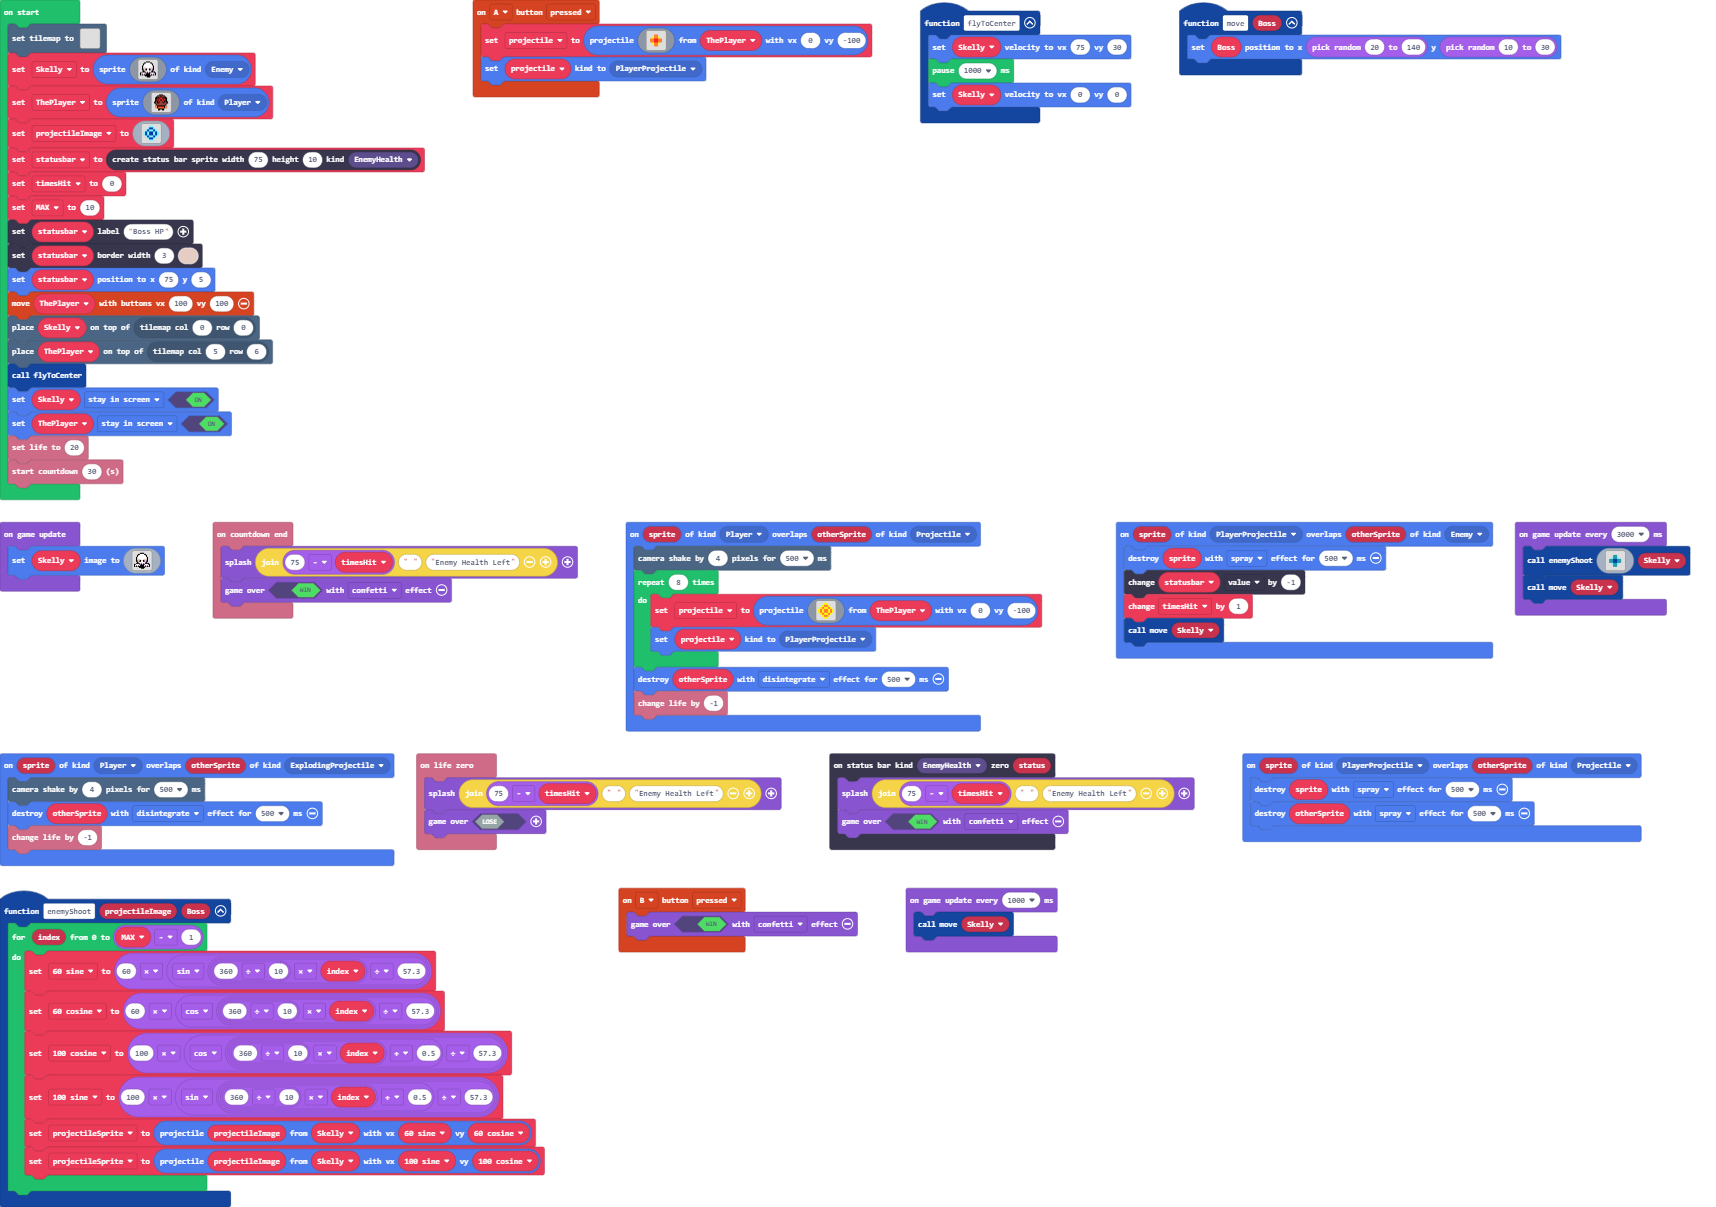
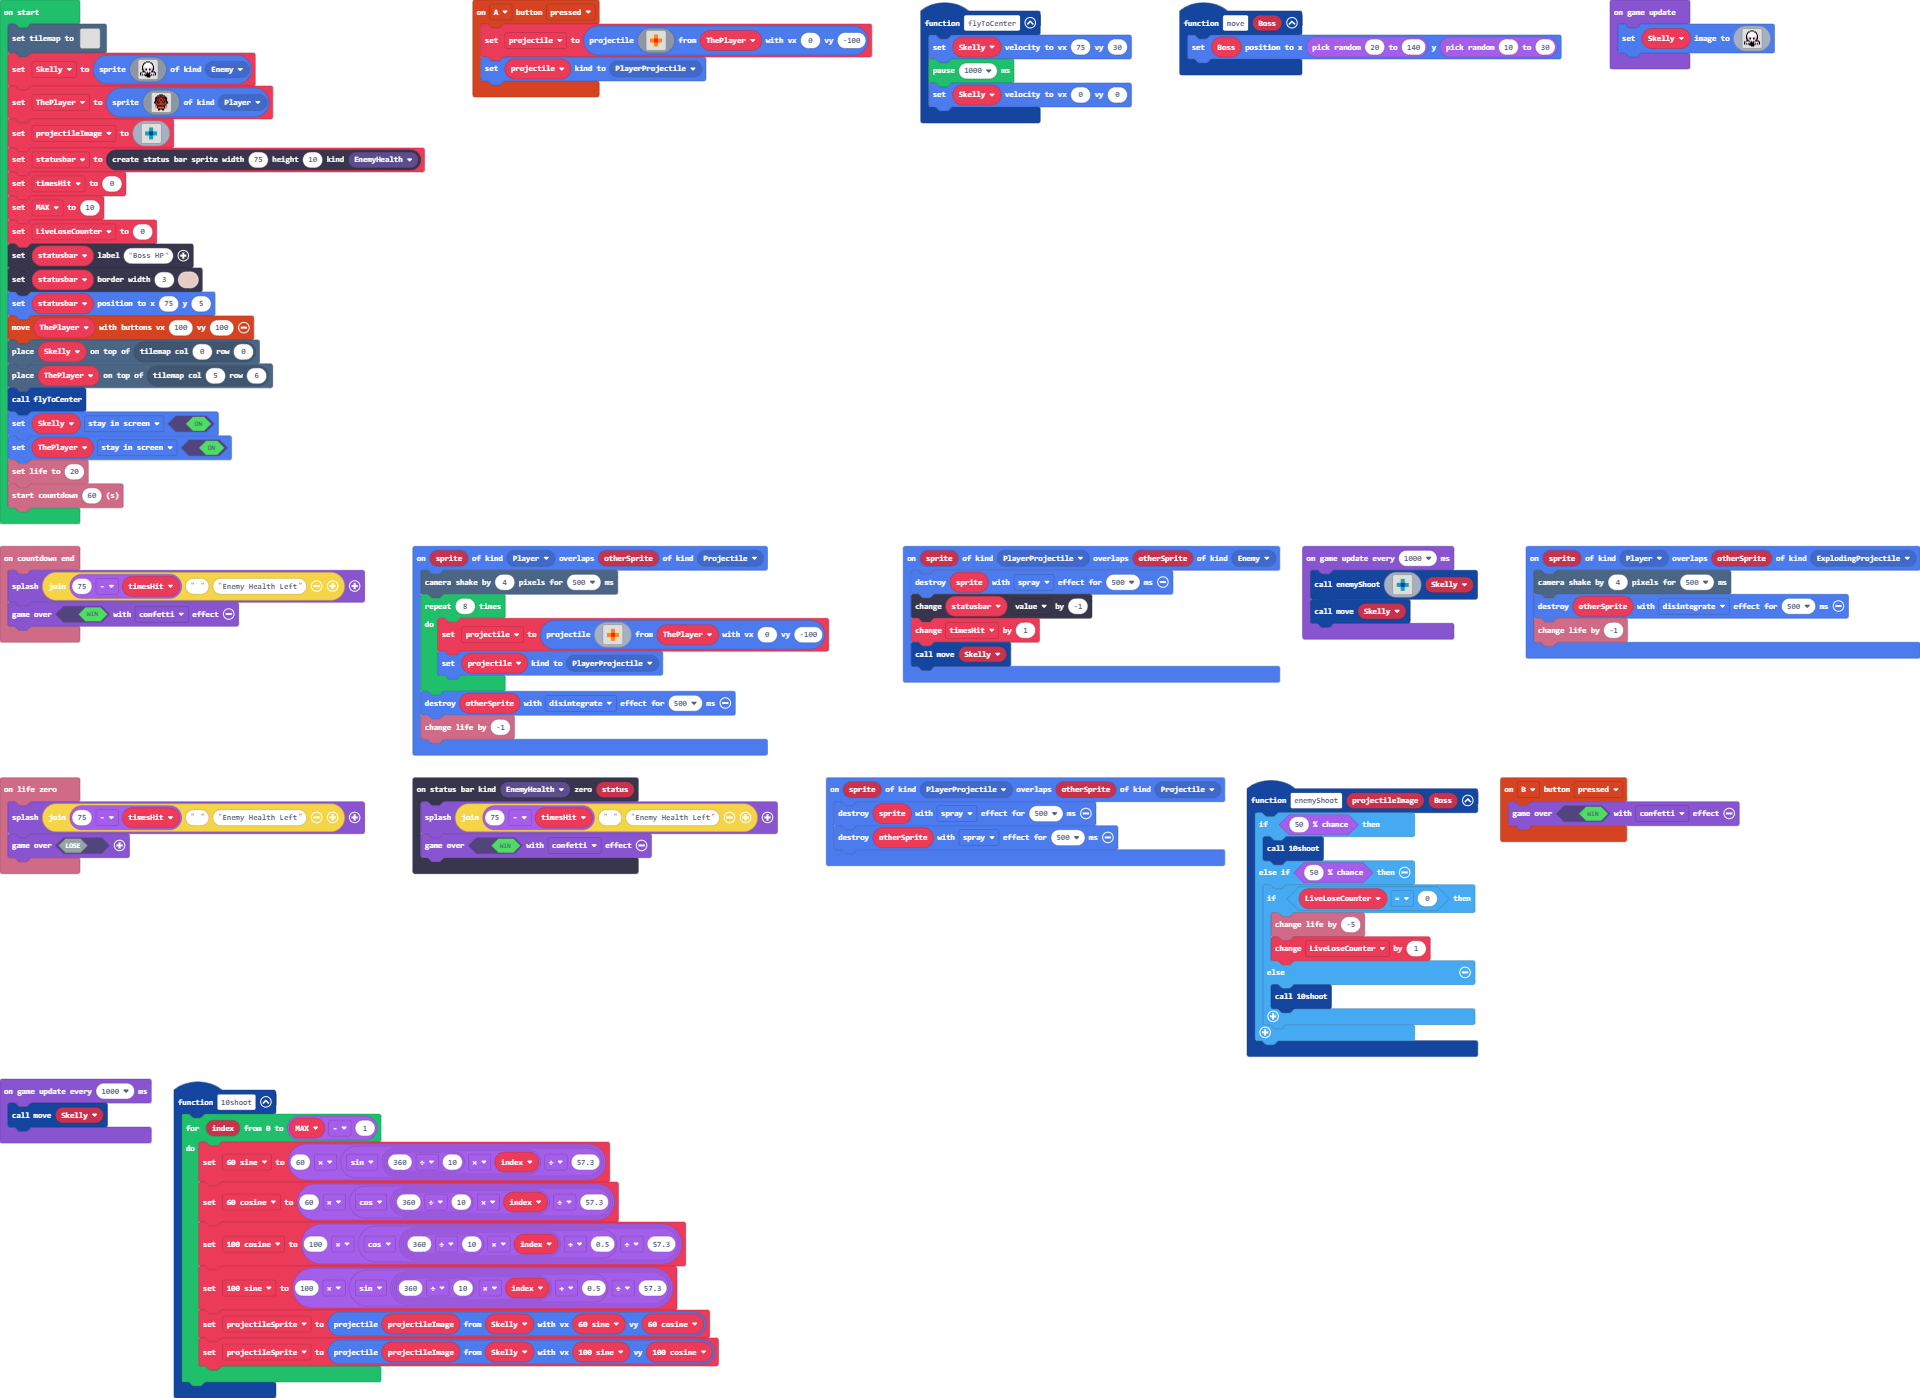
Update main.blocks, main.ts

diff --git a/main.ts b/main.ts
@@ -6,6 +6,16 @@ namespace SpriteKind {
     export const HiddenSprite = SpriteKind.create()
     export const lifebar = SpriteKind.create()
 }
+function _10shoot () {
+    for (let index = 0; index <= MAX - 1; index++) {
+        _60_sine = 60 * Math.sin(360 / 10 * index / 57.3)
+        _60_cosine = 60 * Math.cos(360 / 10 * index / 57.3)
+        _100_cosine = 100 * Math.cos((360 / 10 * index + 0.5) / 57.3)
+        _100_sine = 100 * Math.sin((360 / 10 * index + 0.5) / 57.3)
+        projectileSprite = sprites.createProjectileFromSprite(projectileImage, Skelly, _60_sine, _60_cosine)
+        projectileSprite = sprites.createProjectileFromSprite(projectileImage, Skelly, _100_sine, _100_cosine)
+    }
+}
 controller.B.onEvent(ControllerButtonEvent.Pressed, function () {
     game.over(true, effects.confetti)
 })
@@ -39,14 +49,14 @@ sprites.onOverlap(SpriteKind.Player, SpriteKind.Projectile, function (sprite, ot
     scene.cameraShake(4, 500)
     for (let index = 0; index < 8; index++) {
         projectile = sprites.createProjectileFromSprite(img`
-            . . . 5 5 . . . 
+            . . . . . . . . 
+            . . . 4 4 . . . 
             . . 5 4 4 5 . . 
-            . 5 4 5 5 4 5 . 
-            5 4 5 4 4 5 4 5 
-            5 4 5 4 4 5 4 5 
-            . 5 4 5 5 4 5 . 
+            . 4 4 2 2 4 4 . 
+            . 4 4 2 2 4 4 . 
             . . 5 4 4 5 . . 
-            . . . 5 5 . . . 
+            . . . 4 4 . . . 
+            . . . . . . . . 
             `, ThePlayer, 0, -100)
         projectile.setKind(SpriteKind.PlayerProjectile)
     }
@@ -73,24 +83,27 @@ sprites.onOverlap(SpriteKind.PlayerProjectile, SpriteKind.Projectile, function (
     otherSprite.destroy(effects.spray, 500)
 })
 function enemyShoot (projectileImage: Image, Boss: Sprite) {
-    for (let index = 0; index <= MAX - 1; index++) {
-        _60_sine = 60 * Math.sin(360 / 10 * index / 57.3)
-        _60_cosine = 60 * Math.cos(360 / 10 * index / 57.3)
-        _100_cosine = 100 * Math.cos((360 / 10 * index + 0.5) / 57.3)
-        _100_sine = 100 * Math.sin((360 / 10 * index + 0.5) / 57.3)
-        projectileSprite = sprites.createProjectileFromSprite(projectileImage, Skelly, _60_sine, _60_cosine)
-        projectileSprite = sprites.createProjectileFromSprite(projectileImage, Skelly, _100_sine, _100_cosine)
+    if (Math.percentChance(50)) {
+        _10shoot()
+    } else if (Math.percentChance(50)) {
+        if (LiveLoseCounter == 0) {
+            info.changeLifeBy(-5)
+            LiveLoseCounter += 1
+        } else {
+            _10shoot()
+        }
     }
 }
 function move (Boss: Sprite) {
     Boss.setPosition(randint(20, 140), randint(10, 30))
 }
+let projectile: Sprite = null
 let projectileSprite: Sprite = null
 let _100_sine = 0
 let _100_cosine = 0
 let _60_cosine = 0
 let _60_sine = 0
-let projectile: Sprite = null
+let LiveLoseCounter = 0
 let MAX = 0
 let timesHit = 0
 let statusbar: StatusBarSprite = null
@@ -143,18 +156,19 @@ ThePlayer = sprites.create(img`
     . . . . . f f . . f f . . . . . 
     `, SpriteKind.Player)
 let projectileImage = img`
-    . . . 9 9 . . . 
-    . . 9 8 8 9 . . 
-    . 9 8 9 9 8 9 . 
-    9 8 9 8 8 9 8 9 
-    9 8 9 8 8 9 8 9 
-    . 9 8 9 9 8 9 . 
-    . . 9 8 8 9 . . 
-    . . . 9 9 . . . 
+    . . . . . . . . 
+    . . . 6 6 . . . 
+    . . 9 6 6 9 . . 
+    . 6 6 8 8 6 6 . 
+    . 6 6 8 8 6 6 . 
+    . . 9 6 6 9 . . 
+    . . . 6 6 . . . 
+    . . . . . . . . 
     `
 statusbar = statusbars.create(75, 10, StatusBarKind.EnemyHealth)
 timesHit = 0
 MAX = 10
+LiveLoseCounter = 0
 statusbar.setLabel("Boss HP")
 statusbar.setBarBorder(3, 13)
 statusbar.setPosition(75, 5)
@@ -165,7 +179,7 @@ flyToCenter()
 Skelly.setFlag(SpriteFlag.StayInScreen, true)
 ThePlayer.setFlag(SpriteFlag.StayInScreen, true)
 info.setLife(20)
-info.startCountdown(30)
+info.startCountdown(60)
 game.onUpdate(function () {
     Skelly.setImage(img`
         . . . . . . f f f f . . . . . . 
@@ -187,9 +201,6 @@ game.onUpdate(function () {
         `)
 })
 game.onUpdateInterval(1000, function () {
-    move(Skelly)
-})
-game.onUpdateInterval(3000, function () {
     enemyShoot(img`
         . . . . . . . . 
         . . . 6 6 . . . 
@@ -200,5 +211,8 @@ game.onUpdateInterval(3000, function () {
         . . . 6 6 . . . 
         . . . . . . . . 
         `, Skelly)
+    move(Skelly)
+})
+game.onUpdateInterval(1000, function () {
     move(Skelly)
 })
